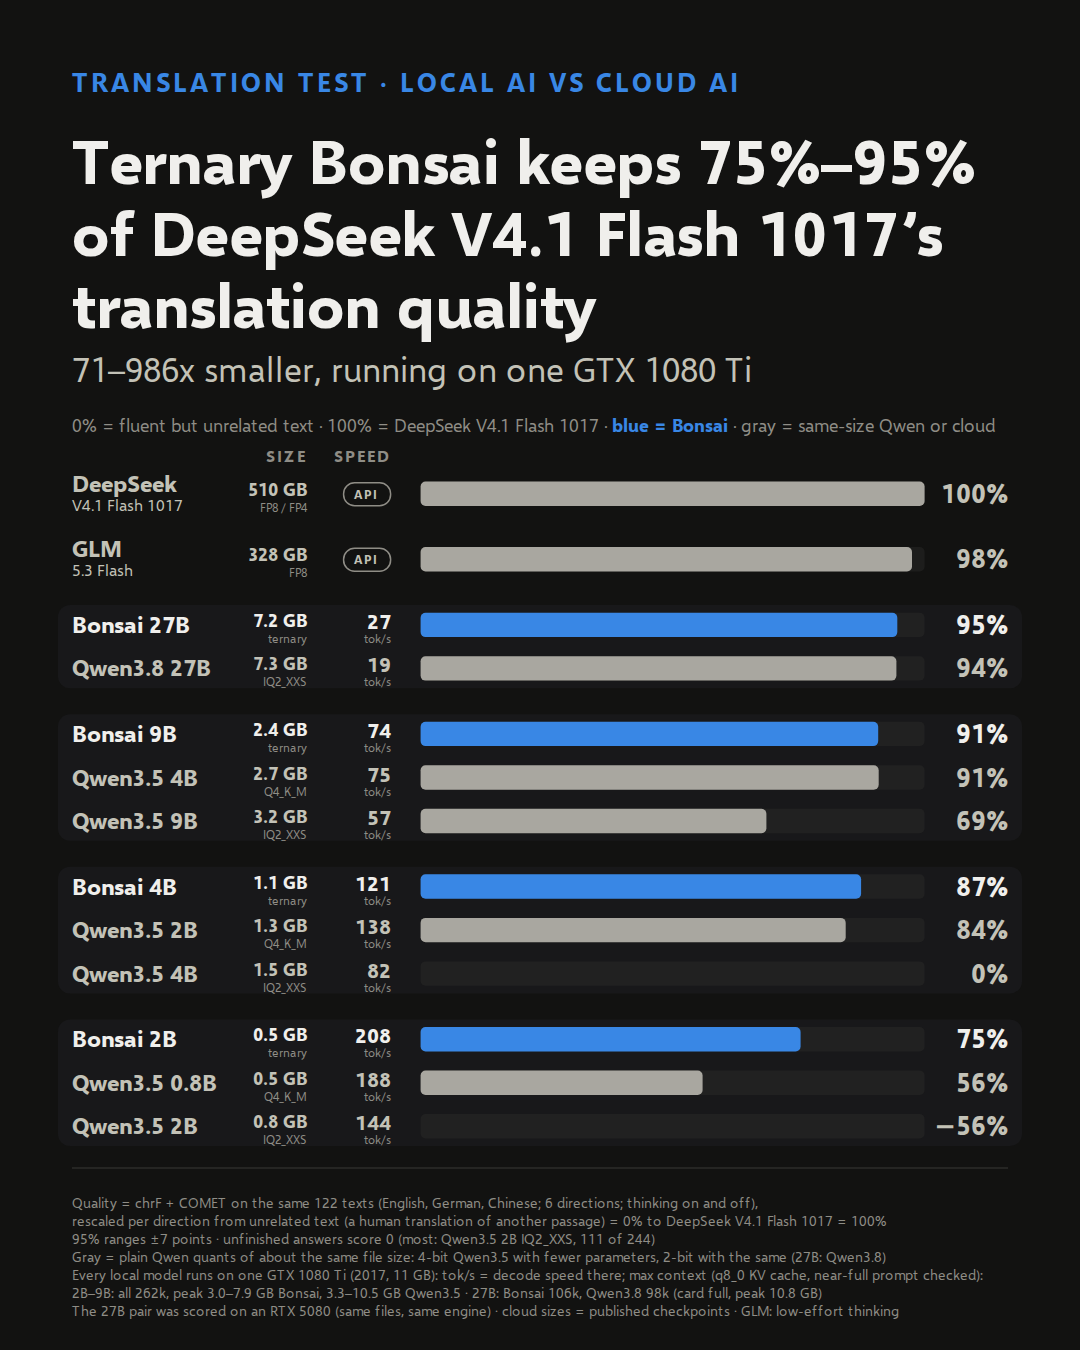
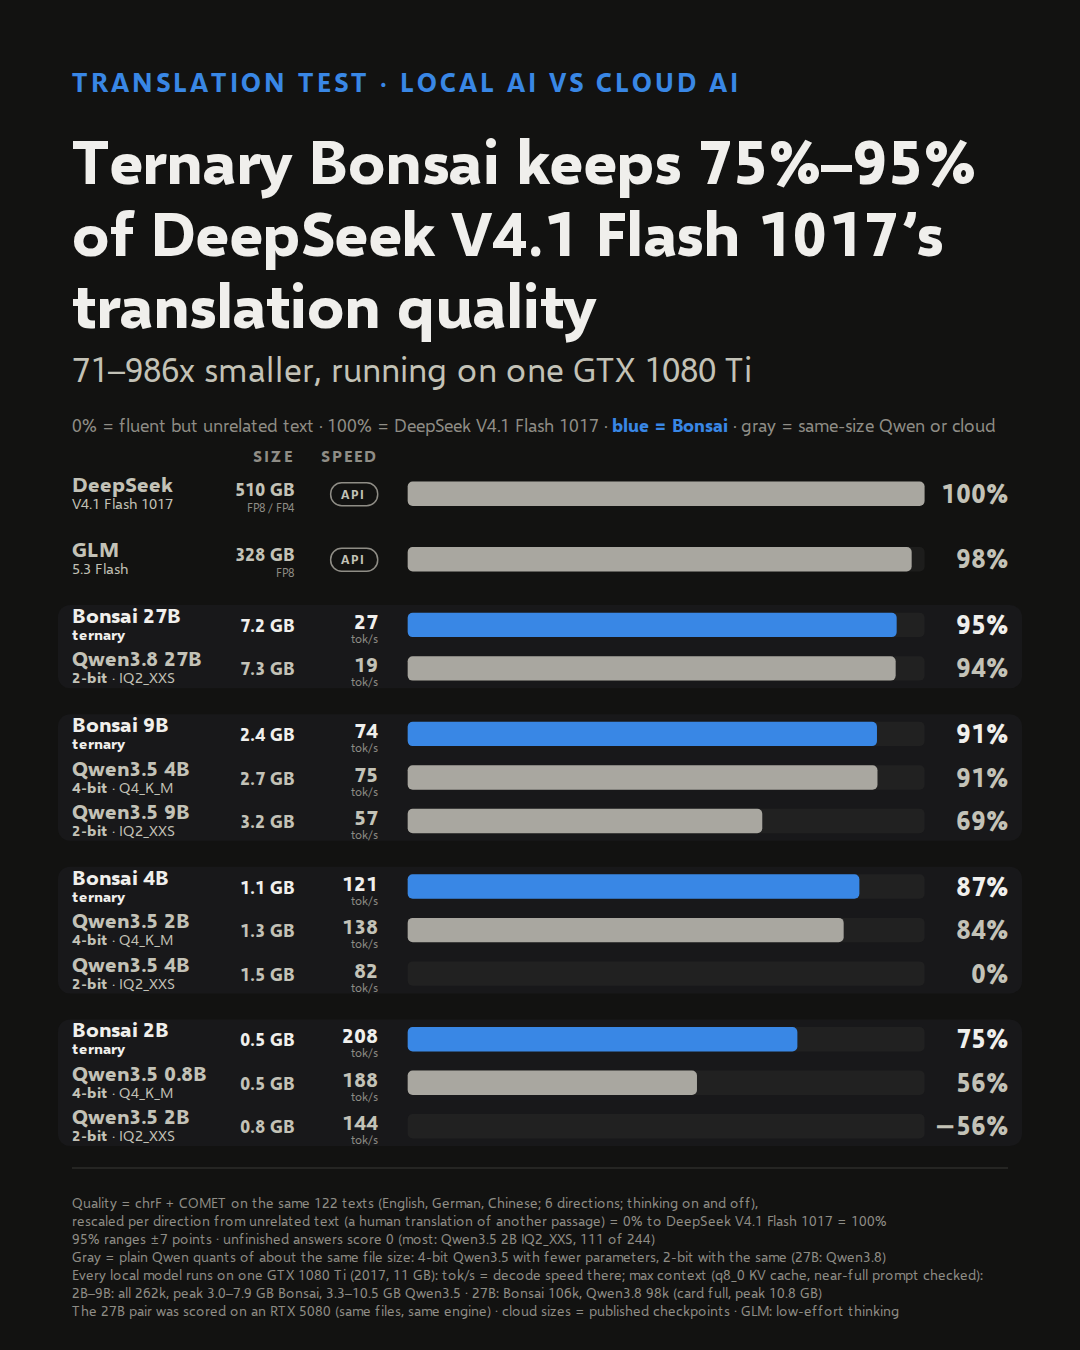
update bonsai2 translation pages

Changed region(s): [[0.0611, 0.3422, 0.3972, 0.8711], [0.2139, 0.3111, 0.3972, 0.6222], [0.3056, 0.3111, 0.3972, 0.3733]]

diff --git a/bonsai2-translation/index.html b/bonsai2-translation/index.html
@@ -26,142 +26,142 @@ svg.card{display:block;width:100%;height:auto;border-radius:14px}
 <text x="72" y="328" fill="#f0efec" font-size="62" font-weight="700" letter-spacing="-0.5">translation quality</text>
 <text x="72" y="382" fill="#c3c2b7" font-size="34">71–986x smaller, running on one GTX 1080 Ti</text>
 <text x="72" y="432" fill="#8f8d86" font-size="18">0% = fluent but unrelated text · 100% = DeepSeek V4.1 Flash 1017 · <tspan fill="#3987e5" font-weight="700">blue = Bonsai</tspan> · gray = same-size Qwen or cloud</text>
-<text x="306.97607421875" y="462" fill="#8f8d86" font-size="16" font-weight="700" letter-spacing="2" text-anchor="end">SIZE</text>
-<text x="390.60107421875" y="462" fill="#8f8d86" font-size="16" font-weight="700" letter-spacing="2" text-anchor="end">SPEED</text>
+<text x="294.05322265625" y="462" fill="#8f8d86" font-size="16" font-weight="700" letter-spacing="2" text-anchor="end">SIZE</text>
+<text x="377.67822265625" y="462" fill="#8f8d86" font-size="16" font-weight="700" letter-spacing="2" text-anchor="end">SPEED</text>
 <g><title>DeepSeek V4.1 Flash 1017, 510 GB: the reference (100%)</title>
-<text x="72" y="491.8" fill="#c3c2b7" font-size="23" font-weight="700">DeepSeek</text>
-<text x="72" y="510.8" fill="#c3c2b7" font-size="16">V4.1 Flash 1017</text>
-<text x="306.97607421875" y="495.8" fill="#c3c2b7" font-size="18" font-weight="700" text-anchor="end">510 GB</text>
-<text x="306.97607421875" y="511.8" fill="#8f8d86" font-size="12" text-anchor="end">FP8 / FP4</text>
-<rect x="343.60107421875" y="482.8" width="47" height="23" rx="11" fill="none" stroke="#8f8d86" stroke-width="1.5"/>
-<text x="366.60107421875" y="498.8" fill="#c3c2b7" font-size="12" font-weight="700" letter-spacing="1.5" text-anchor="middle">API</text>
-<rect x="420.60107421875" y="481.6" width="503.98681640625" height="24.4" rx="5" fill="#2c2c2a" fill-opacity=".45"/>
-<rect x="420.60107421875" y="481.6" width="504.0" height="24.4" rx="5" fill="#a9a7a0"/>
+<text x="72" y="491.8" fill="#c3c2b7" font-size="21" font-weight="700">DeepSeek</text>
+<text x="72" y="508.8" fill="#c3c2b7" font-size="15">V4.1 Flash 1017</text>
+<text x="294.05322265625" y="495.8" fill="#c3c2b7" font-size="18" font-weight="700" text-anchor="end">510 GB</text>
+<text x="294.05322265625" y="511.8" fill="#8f8d86" font-size="12" text-anchor="end">FP8 / FP4</text>
+<rect x="330.67822265625" y="482.8" width="47" height="23" rx="11" fill="none" stroke="#8f8d86" stroke-width="1.5"/>
+<text x="353.67822265625" y="498.8" fill="#c3c2b7" font-size="12" font-weight="700" letter-spacing="1.5" text-anchor="middle">API</text>
+<rect x="407.67822265625" y="481.6" width="516.90966796875" height="24.4" rx="5" fill="#2c2c2a" fill-opacity=".45"/>
+<rect x="407.67822265625" y="481.6" width="516.9" height="24.4" rx="5" fill="#a9a7a0"/>
 <text x="1008" y="502.8" fill="#c3c2b7" font-size="26" font-weight="700" text-anchor="end">100%</text>
 </g>
 <g><title>GLM 5.3 Flash, 328 GB: 98% of the way from unrelated text to DeepSeek V4.1 Flash 1017 (95% range 96% to 99%)</title>
-<text x="72" y="557.3" fill="#c3c2b7" font-size="23" font-weight="700">GLM</text>
-<text x="72" y="576.3" fill="#c3c2b7" font-size="16">5.3 Flash</text>
-<text x="306.97607421875" y="561.3" fill="#c3c2b7" font-size="18" font-weight="700" text-anchor="end">328 GB</text>
-<text x="306.97607421875" y="577.3" fill="#8f8d86" font-size="12" text-anchor="end">FP8</text>
-<rect x="343.60107421875" y="548.3" width="47" height="23" rx="11" fill="none" stroke="#8f8d86" stroke-width="1.5"/>
-<text x="366.60107421875" y="564.3" fill="#c3c2b7" font-size="12" font-weight="700" letter-spacing="1.5" text-anchor="middle">API</text>
-<rect x="420.60107421875" y="547.1" width="503.98681640625" height="24.4" rx="5" fill="#2c2c2a" fill-opacity=".45"/>
-<rect x="420.60107421875" y="547.1" width="491.4" height="24.4" rx="5" fill="#a9a7a0"/>
+<text x="72" y="557.3" fill="#c3c2b7" font-size="21" font-weight="700">GLM</text>
+<text x="72" y="574.3" fill="#c3c2b7" font-size="15">5.3 Flash</text>
+<text x="294.05322265625" y="561.3" fill="#c3c2b7" font-size="18" font-weight="700" text-anchor="end">328 GB</text>
+<text x="294.05322265625" y="577.3" fill="#8f8d86" font-size="12" text-anchor="end">FP8</text>
+<rect x="330.67822265625" y="548.3" width="47" height="23" rx="11" fill="none" stroke="#8f8d86" stroke-width="1.5"/>
+<text x="353.67822265625" y="564.3" fill="#c3c2b7" font-size="12" font-weight="700" letter-spacing="1.5" text-anchor="middle">API</text>
+<rect x="407.67822265625" y="547.1" width="516.90966796875" height="24.4" rx="5" fill="#2c2c2a" fill-opacity=".45"/>
+<rect x="407.67822265625" y="547.1" width="504.0" height="24.4" rx="5" fill="#a9a7a0"/>
 <text x="1008" y="568.3" fill="#c3c2b7" font-size="26" font-weight="700" text-anchor="end">98%</text>
 </g>
 <rect x="58" y="605.1" width="964" height="83.1" rx="12" fill="#18181a"/>
 <g><title>Bonsai 27B, 7.2 GB: 95% of the way from unrelated text to DeepSeek V4.1 Flash 1017 (95% range 93% to 96%)</title>
-<text x="72" y="632.8" fill="#f0efec" font-size="23" font-weight="700">Bonsai 27B</text>
-<text x="306.97607421875" y="626.8" fill="#f0efec" font-size="18" font-weight="700" text-anchor="end">7.2 GB</text>
-<text x="306.97607421875" y="642.8" fill="#8f8d86" font-size="12" text-anchor="end">ternary</text>
-<text x="390.60107421875" y="628.8" fill="#f0efec" font-size="21" font-weight="700" text-anchor="end">27</text>
-<text x="390.60107421875" y="642.8" fill="#8f8d86" font-size="12" text-anchor="end">tok/s</text>
-<rect x="420.60107421875" y="612.7" width="503.98681640625" height="24.4" rx="5" fill="#2c2c2a" fill-opacity=".45"/>
-<rect x="420.60107421875" y="612.7" width="476.7" height="24.4" rx="5" fill="#3987e5"/>
+<text x="72" y="622.8" fill="#f0efec" font-size="21" font-weight="700">Bonsai 27B</text>
+<text x="72" y="639.8" fill="#c3c2b7" font-size="15"><tspan fill="#f0efec" font-weight="700">ternary</tspan></text>
+<text x="294.05322265625" y="631.8" fill="#f0efec" font-size="18" font-weight="700" text-anchor="end">7.2 GB</text>
+<text x="377.67822265625" y="628.8" fill="#f0efec" font-size="21" font-weight="700" text-anchor="end">27</text>
+<text x="377.67822265625" y="642.8" fill="#8f8d86" font-size="12" text-anchor="end">tok/s</text>
+<rect x="407.67822265625" y="612.7" width="516.90966796875" height="24.4" rx="5" fill="#2c2c2a" fill-opacity=".45"/>
+<rect x="407.67822265625" y="612.7" width="489.0" height="24.4" rx="5" fill="#3987e5"/>
 <text x="1008" y="633.8" fill="#f0efec" font-size="26" font-weight="700" text-anchor="end">95%</text>
 </g>
 <g><title>Qwen3.8 27B, 7.3 GB: 94% of the way from unrelated text to DeepSeek V4.1 Flash 1017 (95% range 92% to 96%)</title>
-<text x="72" y="676.4" fill="#c3c2b7" font-size="23" font-weight="700">Qwen3.8 27B</text>
-<text x="306.97607421875" y="670.4" fill="#c3c2b7" font-size="18" font-weight="700" text-anchor="end">7.3 GB</text>
-<text x="306.97607421875" y="686.4" fill="#8f8d86" font-size="12" text-anchor="end">IQ2_XXS</text>
-<text x="390.60107421875" y="672.4" fill="#c3c2b7" font-size="21" font-weight="700" text-anchor="end">19</text>
-<text x="390.60107421875" y="686.4" fill="#8f8d86" font-size="12" text-anchor="end">tok/s</text>
-<rect x="420.60107421875" y="656.2" width="503.98681640625" height="24.4" rx="5" fill="#2c2c2a" fill-opacity=".45"/>
-<rect x="420.60107421875" y="656.2" width="475.8" height="24.4" rx="5" fill="#a9a7a0"/>
+<text x="72" y="666.4" fill="#c3c2b7" font-size="21" font-weight="700">Qwen3.8 27B</text>
+<text x="72" y="683.4" fill="#c3c2b7" font-size="15"><tspan fill="#c3c2b7" font-weight="700">2-bit</tspan> · IQ2_XXS</text>
+<text x="294.05322265625" y="675.4" fill="#c3c2b7" font-size="18" font-weight="700" text-anchor="end">7.3 GB</text>
+<text x="377.67822265625" y="672.4" fill="#c3c2b7" font-size="21" font-weight="700" text-anchor="end">19</text>
+<text x="377.67822265625" y="686.4" fill="#8f8d86" font-size="12" text-anchor="end">tok/s</text>
+<rect x="407.67822265625" y="656.2" width="516.90966796875" height="24.4" rx="5" fill="#2c2c2a" fill-opacity=".45"/>
+<rect x="407.67822265625" y="656.2" width="488.0" height="24.4" rx="5" fill="#a9a7a0"/>
 <text x="1008" y="677.4" fill="#c3c2b7" font-size="26" font-weight="700" text-anchor="end">94%</text>
 </g>
 <rect x="58" y="714.2" width="964" height="126.6" rx="12" fill="#18181a"/>
 <g><title>Bonsai 9B, 2.4 GB: 91% of the way from unrelated text to DeepSeek V4.1 Flash 1017 (95% range 89% to 92%)</title>
-<text x="72" y="741.9" fill="#f0efec" font-size="23" font-weight="700">Bonsai 9B</text>
-<text x="306.97607421875" y="735.9" fill="#f0efec" font-size="18" font-weight="700" text-anchor="end">2.4 GB</text>
-<text x="306.97607421875" y="751.9" fill="#8f8d86" font-size="12" text-anchor="end">ternary</text>
-<text x="390.60107421875" y="737.9" fill="#f0efec" font-size="21" font-weight="700" text-anchor="end">74</text>
-<text x="390.60107421875" y="751.9" fill="#8f8d86" font-size="12" text-anchor="end">tok/s</text>
-<rect x="420.60107421875" y="721.7" width="503.98681640625" height="24.4" rx="5" fill="#2c2c2a" fill-opacity=".45"/>
-<rect x="420.60107421875" y="721.7" width="457.6" height="24.4" rx="5" fill="#3987e5"/>
+<text x="72" y="731.9" fill="#f0efec" font-size="21" font-weight="700">Bonsai 9B</text>
+<text x="72" y="748.9" fill="#c3c2b7" font-size="15"><tspan fill="#f0efec" font-weight="700">ternary</tspan></text>
+<text x="294.05322265625" y="740.9" fill="#f0efec" font-size="18" font-weight="700" text-anchor="end">2.4 GB</text>
+<text x="377.67822265625" y="737.9" fill="#f0efec" font-size="21" font-weight="700" text-anchor="end">74</text>
+<text x="377.67822265625" y="751.9" fill="#8f8d86" font-size="12" text-anchor="end">tok/s</text>
+<rect x="407.67822265625" y="721.7" width="516.90966796875" height="24.4" rx="5" fill="#2c2c2a" fill-opacity=".45"/>
+<rect x="407.67822265625" y="721.7" width="469.3" height="24.4" rx="5" fill="#3987e5"/>
 <text x="1008" y="742.9" fill="#f0efec" font-size="26" font-weight="700" text-anchor="end">91%</text>
 </g>
 <g><title>Qwen3.5 4B, 2.7 GB: 91% of the way from unrelated text to DeepSeek V4.1 Flash 1017 (95% range 89% to 93%)</title>
-<text x="72" y="785.5" fill="#c3c2b7" font-size="23" font-weight="700">Qwen3.5 4B</text>
-<text x="306.97607421875" y="779.5" fill="#c3c2b7" font-size="18" font-weight="700" text-anchor="end">2.7 GB</text>
-<text x="306.97607421875" y="795.5" fill="#8f8d86" font-size="12" text-anchor="end">Q4_K_M</text>
-<text x="390.60107421875" y="781.5" fill="#c3c2b7" font-size="21" font-weight="700" text-anchor="end">75</text>
-<text x="390.60107421875" y="795.5" fill="#8f8d86" font-size="12" text-anchor="end">tok/s</text>
-<rect x="420.60107421875" y="765.3" width="503.98681640625" height="24.4" rx="5" fill="#2c2c2a" fill-opacity=".45"/>
-<rect x="420.60107421875" y="765.3" width="458.1" height="24.4" rx="5" fill="#a9a7a0"/>
+<text x="72" y="775.5" fill="#c3c2b7" font-size="21" font-weight="700">Qwen3.5 4B</text>
+<text x="72" y="792.5" fill="#c3c2b7" font-size="15"><tspan fill="#c3c2b7" font-weight="700">4-bit</tspan> · Q4_K_M</text>
+<text x="294.05322265625" y="784.5" fill="#c3c2b7" font-size="18" font-weight="700" text-anchor="end">2.7 GB</text>
+<text x="377.67822265625" y="781.5" fill="#c3c2b7" font-size="21" font-weight="700" text-anchor="end">75</text>
+<text x="377.67822265625" y="795.5" fill="#8f8d86" font-size="12" text-anchor="end">tok/s</text>
+<rect x="407.67822265625" y="765.3" width="516.90966796875" height="24.4" rx="5" fill="#2c2c2a" fill-opacity=".45"/>
+<rect x="407.67822265625" y="765.3" width="469.8" height="24.4" rx="5" fill="#a9a7a0"/>
 <text x="1008" y="786.5" fill="#c3c2b7" font-size="26" font-weight="700" text-anchor="end">91%</text>
 </g>
 <g><title>Qwen3.5 9B, 3.2 GB: 69% of the way from unrelated text to DeepSeek V4.1 Flash 1017 (95% range 61% to 76%)</title>
-<text x="72" y="829.0" fill="#c3c2b7" font-size="23" font-weight="700">Qwen3.5 9B</text>
-<text x="306.97607421875" y="823.0" fill="#c3c2b7" font-size="18" font-weight="700" text-anchor="end">3.2 GB</text>
-<text x="306.97607421875" y="839.0" fill="#8f8d86" font-size="12" text-anchor="end">IQ2_XXS</text>
-<text x="390.60107421875" y="825.0" fill="#c3c2b7" font-size="21" font-weight="700" text-anchor="end">57</text>
-<text x="390.60107421875" y="839.0" fill="#8f8d86" font-size="12" text-anchor="end">tok/s</text>
-<rect x="420.60107421875" y="808.8" width="503.98681640625" height="24.4" rx="5" fill="#2c2c2a" fill-opacity=".45"/>
-<rect x="420.60107421875" y="808.8" width="345.8" height="24.4" rx="5" fill="#a9a7a0"/>
+<text x="72" y="819.0" fill="#c3c2b7" font-size="21" font-weight="700">Qwen3.5 9B</text>
+<text x="72" y="836.0" fill="#c3c2b7" font-size="15"><tspan fill="#c3c2b7" font-weight="700">2-bit</tspan> · IQ2_XXS</text>
+<text x="294.05322265625" y="828.0" fill="#c3c2b7" font-size="18" font-weight="700" text-anchor="end">3.2 GB</text>
+<text x="377.67822265625" y="825.0" fill="#c3c2b7" font-size="21" font-weight="700" text-anchor="end">57</text>
+<text x="377.67822265625" y="839.0" fill="#8f8d86" font-size="12" text-anchor="end">tok/s</text>
+<rect x="407.67822265625" y="808.8" width="516.90966796875" height="24.4" rx="5" fill="#2c2c2a" fill-opacity=".45"/>
+<rect x="407.67822265625" y="808.8" width="354.6" height="24.4" rx="5" fill="#a9a7a0"/>
 <text x="1008" y="830.0" fill="#c3c2b7" font-size="26" font-weight="700" text-anchor="end">69%</text>
 </g>
 <rect x="58" y="866.8" width="964" height="126.6" rx="12" fill="#18181a"/>
 <g><title>Bonsai 4B, 1.1 GB: 87% of the way from unrelated text to DeepSeek V4.1 Flash 1017 (95% range 86% to 89%)</title>
-<text x="72" y="894.5" fill="#f0efec" font-size="23" font-weight="700">Bonsai 4B</text>
-<text x="306.97607421875" y="888.5" fill="#f0efec" font-size="18" font-weight="700" text-anchor="end">1.1 GB</text>
-<text x="306.97607421875" y="904.5" fill="#8f8d86" font-size="12" text-anchor="end">ternary</text>
-<text x="390.60107421875" y="890.5" fill="#f0efec" font-size="21" font-weight="700" text-anchor="end">121</text>
-<text x="390.60107421875" y="904.5" fill="#8f8d86" font-size="12" text-anchor="end">tok/s</text>
-<rect x="420.60107421875" y="874.3" width="503.98681640625" height="24.4" rx="5" fill="#2c2c2a" fill-opacity=".45"/>
-<rect x="420.60107421875" y="874.3" width="440.5" height="24.4" rx="5" fill="#3987e5"/>
+<text x="72" y="884.5" fill="#f0efec" font-size="21" font-weight="700">Bonsai 4B</text>
+<text x="72" y="901.5" fill="#c3c2b7" font-size="15"><tspan fill="#f0efec" font-weight="700">ternary</tspan></text>
+<text x="294.05322265625" y="893.5" fill="#f0efec" font-size="18" font-weight="700" text-anchor="end">1.1 GB</text>
+<text x="377.67822265625" y="890.5" fill="#f0efec" font-size="21" font-weight="700" text-anchor="end">121</text>
+<text x="377.67822265625" y="904.5" fill="#8f8d86" font-size="12" text-anchor="end">tok/s</text>
+<rect x="407.67822265625" y="874.3" width="516.90966796875" height="24.4" rx="5" fill="#2c2c2a" fill-opacity=".45"/>
+<rect x="407.67822265625" y="874.3" width="451.7" height="24.4" rx="5" fill="#3987e5"/>
 <text x="1008" y="895.5" fill="#f0efec" font-size="26" font-weight="700" text-anchor="end">87%</text>
 </g>
 <g><title>Qwen3.5 2B, 1.3 GB: 84% of the way from unrelated text to DeepSeek V4.1 Flash 1017 (95% range 82% to 86%)</title>
-<text x="72" y="938.1" fill="#c3c2b7" font-size="23" font-weight="700">Qwen3.5 2B</text>
-<text x="306.97607421875" y="932.1" fill="#c3c2b7" font-size="18" font-weight="700" text-anchor="end">1.3 GB</text>
-<text x="306.97607421875" y="948.1" fill="#8f8d86" font-size="12" text-anchor="end">Q4_K_M</text>
-<text x="390.60107421875" y="934.1" fill="#c3c2b7" font-size="21" font-weight="700" text-anchor="end">138</text>
-<text x="390.60107421875" y="948.1" fill="#8f8d86" font-size="12" text-anchor="end">tok/s</text>
-<rect x="420.60107421875" y="917.9" width="503.98681640625" height="24.4" rx="5" fill="#2c2c2a" fill-opacity=".45"/>
-<rect x="420.60107421875" y="917.9" width="425.1" height="24.4" rx="5" fill="#a9a7a0"/>
+<text x="72" y="928.1" fill="#c3c2b7" font-size="21" font-weight="700">Qwen3.5 2B</text>
+<text x="72" y="945.1" fill="#c3c2b7" font-size="15"><tspan fill="#c3c2b7" font-weight="700">4-bit</tspan> · Q4_K_M</text>
+<text x="294.05322265625" y="937.1" fill="#c3c2b7" font-size="18" font-weight="700" text-anchor="end">1.3 GB</text>
+<text x="377.67822265625" y="934.1" fill="#c3c2b7" font-size="21" font-weight="700" text-anchor="end">138</text>
+<text x="377.67822265625" y="948.1" fill="#8f8d86" font-size="12" text-anchor="end">tok/s</text>
+<rect x="407.67822265625" y="917.9" width="516.90966796875" height="24.4" rx="5" fill="#2c2c2a" fill-opacity=".45"/>
+<rect x="407.67822265625" y="917.9" width="436.0" height="24.4" rx="5" fill="#a9a7a0"/>
 <text x="1008" y="939.1" fill="#c3c2b7" font-size="26" font-weight="700" text-anchor="end">84%</text>
 </g>
 <g><title>Qwen3.5 4B, 1.5 GB: 0% of the way from unrelated text to DeepSeek V4.1 Flash 1017 (95% range −7% to 6%)</title>
-<text x="72" y="981.6" fill="#c3c2b7" font-size="23" font-weight="700">Qwen3.5 4B</text>
-<text x="306.97607421875" y="975.6" fill="#c3c2b7" font-size="18" font-weight="700" text-anchor="end">1.5 GB</text>
-<text x="306.97607421875" y="991.6" fill="#8f8d86" font-size="12" text-anchor="end">IQ2_XXS</text>
-<text x="390.60107421875" y="977.6" fill="#c3c2b7" font-size="21" font-weight="700" text-anchor="end">82</text>
-<text x="390.60107421875" y="991.6" fill="#8f8d86" font-size="12" text-anchor="end">tok/s</text>
-<rect x="420.60107421875" y="961.4" width="503.98681640625" height="24.4" rx="5" fill="#2c2c2a" fill-opacity=".45"/>
-<rect x="420.60107421875" y="961.4" width="-1.2" height="24.4" rx="5" fill="#a9a7a0"/>
+<text x="72" y="971.6" fill="#c3c2b7" font-size="21" font-weight="700">Qwen3.5 4B</text>
+<text x="72" y="988.6" fill="#c3c2b7" font-size="15"><tspan fill="#c3c2b7" font-weight="700">2-bit</tspan> · IQ2_XXS</text>
+<text x="294.05322265625" y="980.6" fill="#c3c2b7" font-size="18" font-weight="700" text-anchor="end">1.5 GB</text>
+<text x="377.67822265625" y="977.6" fill="#c3c2b7" font-size="21" font-weight="700" text-anchor="end">82</text>
+<text x="377.67822265625" y="991.6" fill="#8f8d86" font-size="12" text-anchor="end">tok/s</text>
+<rect x="407.67822265625" y="961.4" width="516.90966796875" height="24.4" rx="5" fill="#2c2c2a" fill-opacity=".45"/>
+<rect x="407.67822265625" y="961.4" width="-1.2" height="24.4" rx="5" fill="#a9a7a0"/>
 <text x="1008" y="982.6" fill="#c3c2b7" font-size="26" font-weight="700" text-anchor="end">0%</text>
 </g>
 <rect x="58" y="1019.4" width="964" height="126.6" rx="12" fill="#18181a"/>
 <g><title>Bonsai 2B, 0.5 GB: 75% of the way from unrelated text to DeepSeek V4.1 Flash 1017 (95% range 73% to 78%)</title>
-<text x="72" y="1047.2" fill="#f0efec" font-size="23" font-weight="700">Bonsai 2B</text>
-<text x="306.97607421875" y="1041.2" fill="#f0efec" font-size="18" font-weight="700" text-anchor="end">0.5 GB</text>
-<text x="306.97607421875" y="1057.2" fill="#8f8d86" font-size="12" text-anchor="end">ternary</text>
-<text x="390.60107421875" y="1043.2" fill="#f0efec" font-size="21" font-weight="700" text-anchor="end">208</text>
-<text x="390.60107421875" y="1057.2" fill="#8f8d86" font-size="12" text-anchor="end">tok/s</text>
-<rect x="420.60107421875" y="1027.0" width="503.98681640625" height="24.4" rx="5" fill="#2c2c2a" fill-opacity=".45"/>
-<rect x="420.60107421875" y="1027.0" width="380.0" height="24.4" rx="5" fill="#3987e5"/>
+<text x="72" y="1037.2" fill="#f0efec" font-size="21" font-weight="700">Bonsai 2B</text>
+<text x="72" y="1054.2" fill="#c3c2b7" font-size="15"><tspan fill="#f0efec" font-weight="700">ternary</tspan></text>
+<text x="294.05322265625" y="1046.2" fill="#f0efec" font-size="18" font-weight="700" text-anchor="end">0.5 GB</text>
+<text x="377.67822265625" y="1043.2" fill="#f0efec" font-size="21" font-weight="700" text-anchor="end">208</text>
+<text x="377.67822265625" y="1057.2" fill="#8f8d86" font-size="12" text-anchor="end">tok/s</text>
+<rect x="407.67822265625" y="1027.0" width="516.90966796875" height="24.4" rx="5" fill="#2c2c2a" fill-opacity=".45"/>
+<rect x="407.67822265625" y="1027.0" width="389.7" height="24.4" rx="5" fill="#3987e5"/>
 <text x="1008" y="1048.2" fill="#f0efec" font-size="26" font-weight="700" text-anchor="end">75%</text>
 </g>
 <g><title>Qwen3.5 0.8B, 0.5 GB: 56% of the way from unrelated text to DeepSeek V4.1 Flash 1017 (95% range 51% to 61%)</title>
-<text x="72" y="1090.7" fill="#c3c2b7" font-size="23" font-weight="700">Qwen3.5 0.8B</text>
-<text x="306.97607421875" y="1084.7" fill="#c3c2b7" font-size="18" font-weight="700" text-anchor="end">0.5 GB</text>
-<text x="306.97607421875" y="1100.7" fill="#8f8d86" font-size="12" text-anchor="end">Q4_K_M</text>
-<text x="390.60107421875" y="1086.7" fill="#c3c2b7" font-size="21" font-weight="700" text-anchor="end">188</text>
-<text x="390.60107421875" y="1100.7" fill="#8f8d86" font-size="12" text-anchor="end">tok/s</text>
-<rect x="420.60107421875" y="1070.5" width="503.98681640625" height="24.4" rx="5" fill="#2c2c2a" fill-opacity=".45"/>
-<rect x="420.60107421875" y="1070.5" width="282.0" height="24.4" rx="5" fill="#a9a7a0"/>
+<text x="72" y="1080.7" fill="#c3c2b7" font-size="21" font-weight="700">Qwen3.5 0.8B</text>
+<text x="72" y="1097.7" fill="#c3c2b7" font-size="15"><tspan fill="#c3c2b7" font-weight="700">4-bit</tspan> · Q4_K_M</text>
+<text x="294.05322265625" y="1089.7" fill="#c3c2b7" font-size="18" font-weight="700" text-anchor="end">0.5 GB</text>
+<text x="377.67822265625" y="1086.7" fill="#c3c2b7" font-size="21" font-weight="700" text-anchor="end">188</text>
+<text x="377.67822265625" y="1100.7" fill="#8f8d86" font-size="12" text-anchor="end">tok/s</text>
+<rect x="407.67822265625" y="1070.5" width="516.90966796875" height="24.4" rx="5" fill="#2c2c2a" fill-opacity=".45"/>
+<rect x="407.67822265625" y="1070.5" width="289.3" height="24.4" rx="5" fill="#a9a7a0"/>
 <text x="1008" y="1091.7" fill="#c3c2b7" font-size="26" font-weight="700" text-anchor="end">56%</text>
 </g>
 <g><title>Qwen3.5 2B, 0.8 GB: −56% of the way from unrelated text to DeepSeek V4.1 Flash 1017 (95% range −62% to −51%)</title>
-<text x="72" y="1134.2" fill="#c3c2b7" font-size="23" font-weight="700">Qwen3.5 2B</text>
-<text x="306.97607421875" y="1128.2" fill="#c3c2b7" font-size="18" font-weight="700" text-anchor="end">0.8 GB</text>
-<text x="306.97607421875" y="1144.2" fill="#8f8d86" font-size="12" text-anchor="end">IQ2_XXS</text>
-<text x="390.60107421875" y="1130.2" fill="#c3c2b7" font-size="21" font-weight="700" text-anchor="end">144</text>
-<text x="390.60107421875" y="1144.2" fill="#8f8d86" font-size="12" text-anchor="end">tok/s</text>
-<rect x="420.60107421875" y="1114.0" width="503.98681640625" height="24.4" rx="5" fill="#2c2c2a" fill-opacity=".45"/>
-<rect x="420.60107421875" y="1114.0" width="-283.4" height="24.4" rx="5" fill="#a9a7a0"/>
+<text x="72" y="1124.2" fill="#c3c2b7" font-size="21" font-weight="700">Qwen3.5 2B</text>
+<text x="72" y="1141.2" fill="#c3c2b7" font-size="15"><tspan fill="#c3c2b7" font-weight="700">2-bit</tspan> · IQ2_XXS</text>
+<text x="294.05322265625" y="1133.2" fill="#c3c2b7" font-size="18" font-weight="700" text-anchor="end">0.8 GB</text>
+<text x="377.67822265625" y="1130.2" fill="#c3c2b7" font-size="21" font-weight="700" text-anchor="end">144</text>
+<text x="377.67822265625" y="1144.2" fill="#8f8d86" font-size="12" text-anchor="end">tok/s</text>
+<rect x="407.67822265625" y="1114.0" width="516.90966796875" height="24.4" rx="5" fill="#2c2c2a" fill-opacity=".45"/>
+<rect x="407.67822265625" y="1114.0" width="-290.7" height="24.4" rx="5" fill="#a9a7a0"/>
 <text x="1008" y="1135.2" fill="#c3c2b7" font-size="26" font-weight="700" text-anchor="end">−56%</text>
 </g>
 <line x1="72" x2="1008" y1="1168" y2="1168" stroke="#2c2c2a" stroke-width="1.5"/>
